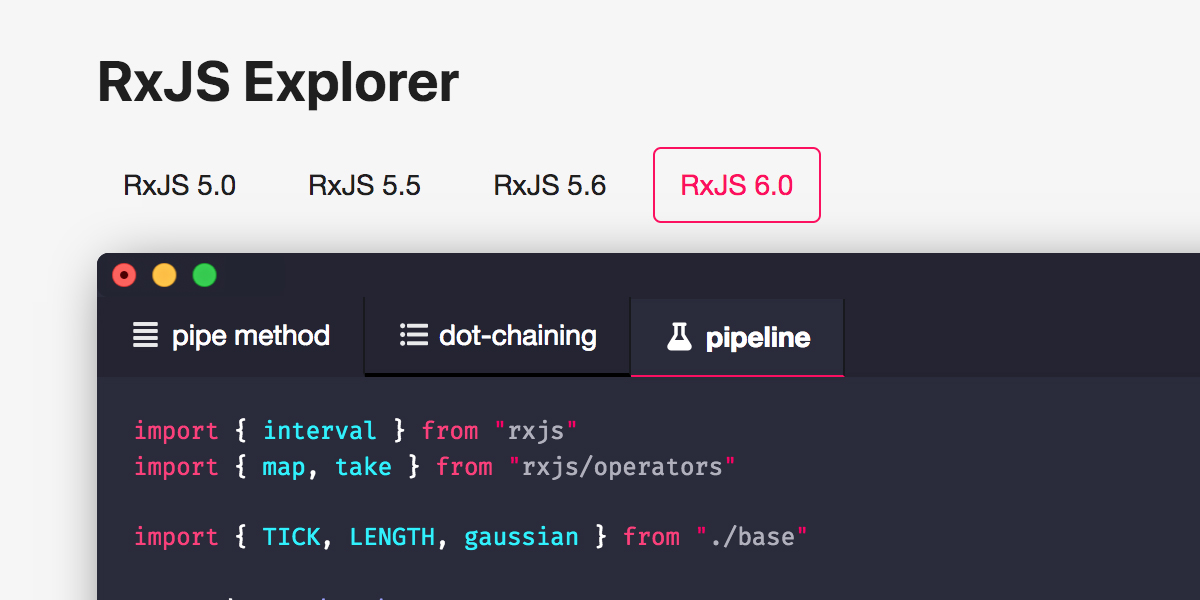
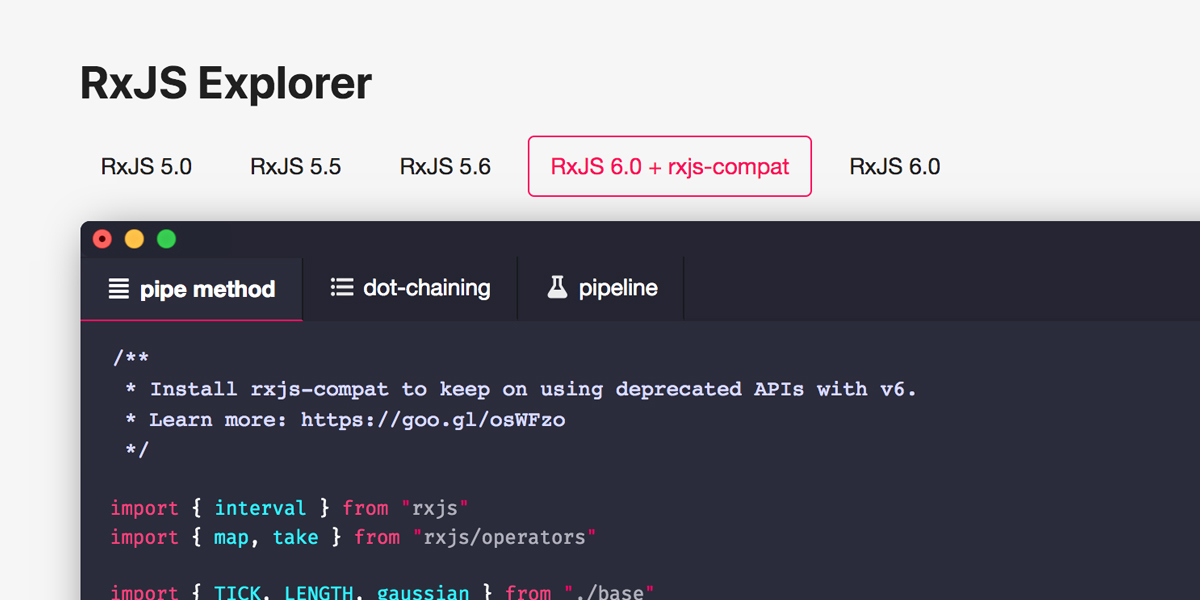
Update explorer with comments

diff --git a/_includes/rxjs_code.html b/_includes/rxjs_code.html
@@ -3,21 +3,20 @@
         <img src="/img/window.png" />
     </div>
     <div class="ui pointing secondary menu">
-        {% if include.version != "5.0" and include.version != "6.0-compat" %}
+        {% if include.version != "5.0" %}
         <a class="item active" data-tab="v{{ include.version }}/pipe-method">
             <i class="computer only icon align justify"></i> pipe method</a>
         {% endif %} {% if include.version != "6.0" %}
         <a class="item" data-tab="v{{ include.version }}/dot-chaining">
             <i class="computer only icon list ul"></i> dot-chaining</a>
-        {% endif %} {% if include.version != "5.0" and include.version != "6.0-compat" %}
+        {% endif %} {% if include.version != "5.0" %}
         <a class="item" data-tab="v{{ include.version }}/pipeline">
             <i class="flask icon"></i> pipeline</a>
         {% endif %}
     </div>
-    {% if include.version != "5.0" and include.version != "6.0-compat" %}{% include rxjs_code_tab.html version=include.version
-    pipeline=include.pipeline package=include.package compat=include.compat tab="pipe-method" active=true %} {% endif %}
-    {% if include.version != "6.0" %} {% include rxjs_code_tab.html version=include.version pipeline=include.pipeline package=include.package
-    compat=include.compat tab="dot-chaining" %} {% endif %} {% if include.version != "5.0" and include.version != "6.0-compat"
-    %} {% include rxjs_code_tab.html version=include.version pipeline=include.pipeline package=include.package compat=include.compat
-    tab="pipeline" %} {% endif %}
+    {% if include.version != "5.0" %}{% include rxjs_code_tab.html version=include.version pipeline=include.pipeline package=include.package
+    compat=include.compat tab="pipe-method" active=true %} {% endif %} {% if include.version != "6.0" %} {% include rxjs_code_tab.html
+    version=include.version pipeline=include.pipeline package=include.package compat=include.compat tab="dot-chaining" %}
+    {% endif %} {% if include.version != "5.0" %} {% include rxjs_code_tab.html version=include.version pipeline=include.pipeline
+    package=include.package compat=include.compat tab="pipeline" %} {% endif %}
 </div>

diff --git a/_includes/rxjs_code_tab.html b/_includes/rxjs_code_tab.html
@@ -1,6 +1,22 @@
 <div class="ui tab {% if include.active %}active{% endif %}" data-tab="v{{ include.version }}/{{ include.tab }}">
+    <pre class="comment">{% if include.version == "5.0" %}/**
+ * RxJS 5.0 only had dot-chaining operators.
+ */{% endif %}{% if include.version == "5.5" %}/**
+ * RxJS 5.5 introduced pipeable operators.
+ * Very easy to build custom and reusable operators!
+ * Look at the "draw" operator in the "pipe method" tab.
+ */{% endif %}{% if include.version == "5.6" %}/**
+ * RxJS 5.6 is a short-term option.
+ * Learn more: https://goo.gl/osWFzo
+ */{% endif %}{% if include.version == "6.0-compat" %}/**
+ * Install rxjs-compat to keep on using deprecated APIs with v6.
+ * Learn more: https://goo.gl/osWFzo
+ */{% endif %}{% if include.version == "6.0" %}/**
+ * The legacy dot-chaining operators no longer exist in v6.
+ * Learn more about API and imports changes: https://goo.gl/osWFzo
+ */{% endif %}</pre>
     <img style="max-width:420px" src="examples/{{ include.version }}/img/{{ include.tab }}.png">
-    <pre>
+    <pre class="package">
 "dependencies": {
     "rxjs": "{{ include.package }}",
     {% if include.version == "6.0-compat" %}"rxjs-compat": "^6.0.0-beta.2",

diff --git a/css/main.scss b/css/main.scss
@@ -204,6 +204,13 @@ img.w550 {
         padding: 20px;
         white-space: pre-wrap;
     }
+    pre.comment {
+        color: #d8dbff;
+        border-top: none;
+        padding-top: 0;
+        padding-bottom: 0;
+        margin-bottom: 0;
+    }
     .link {
         padding: 20px;
         a {
@@ -230,7 +237,6 @@ img.w550 {
                 color: white;
             }
         }
-
         .active.item {
             border-bottom-color: #ff0e60;
             background-color: #2a2c3c;

diff --git a/rxjs/examples/6.0-compat/pipeline.js b/rxjs/examples/6.0-compat/pipeline.js
@@ -1,0 +1,15 @@
+import { interval } from "rxjs"
+import { map, take } from "rxjs/operators"
+
+import { TICK, LENGTH, gaussian } from "./base"
+
+const draw = brush =>
+  map(num => num * 65 |> Math.floor |> brush.repeat)
+
+const stream =
+  interval(TICK)
+  |> take(LENGTH)
+  |> map(gaussian)
+  |> draw("•")
+
+stream.subscribe(console.log)

diff --git a/rxjs/examples/6.0-compat/pipe-method.js b/rxjs/examples/6.0-compat/pipe-method.js
@@ -1,0 +1,15 @@
+import { interval } from "rxjs"
+import { map, take } from "rxjs/operators"
+
+import { TICK, LENGTH, gaussian } from "./base"
+
+const draw = brush =>
+  map(num => brush.repeat(Math.floor(num * 65)))
+
+const stream = interval(TICK).pipe(
+  take(LENGTH),
+  map(gaussian),
+  draw("•")
+)
+
+stream.subscribe(console.log)

diff --git a/rxjs/explorer.md b/rxjs/explorer.md
@@ -48,14 +48,6 @@ date:
 <br/>
 <small>This is the source code of the [▶ "Pipeline Operator" demo in Episode 27](/pipeline-operator).</small>
 
-## Highlights
-
-* RxJS 5.5 introduced pipeable operators. It is very easy to build custom and reusable operators.
-* RxJS 5.5 has a pipe utility function:
-  * as a method built into `Observable`
-  * and as a function at `rxjs/util/pipe`
-* In RxJS 6.0, the legacy dot-chaining operators no longer exist. If you need them, add the **optional** compatibility package `rxjs-compat`.
-
 ## Learn more
 
 * [Episode 27 - JavaScript Pipeline Operator](/pipeline-operator)
